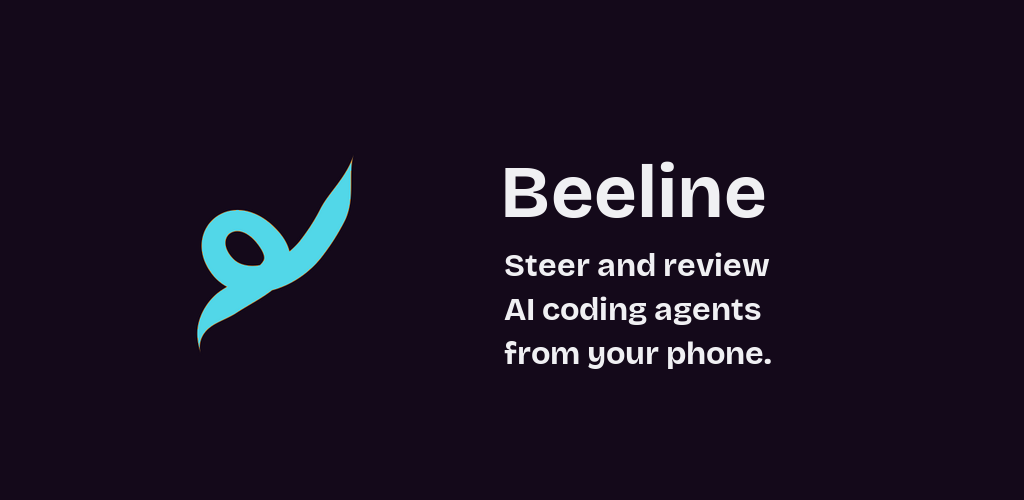
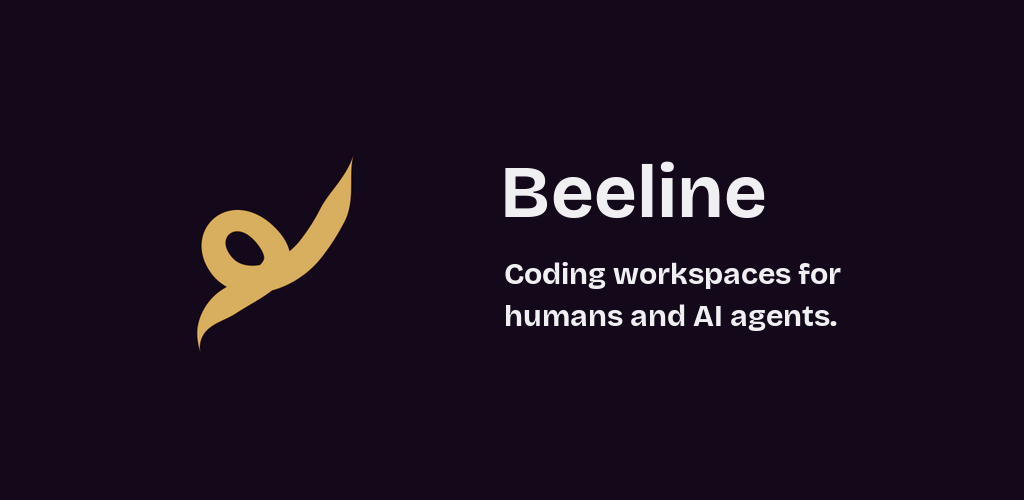
Update Beeline store assets and listing copy

Changed region(s): [[0.4688, 0.51, 0.8438, 0.66], [0.1875, 0.33, 0.3438, 0.69], [0.4688, 0.69, 0.75, 0.75]]

diff --git a/apps/mobile/store/README.md b/apps/mobile/store/README.md
@@ -13,7 +13,7 @@ It makes no store API calls. The current app identity is `app.usebeeline.mobile`
 - `screenshots/` — four 1080 × 2400 Android captures, each from the Beeline app.
 
 The store derivatives retain the canonical continuous-loop geometry from
-`apps/mobile/sources/assets/images/icon.svg`. Their cyan loop is the
+`apps/mobile/sources/assets/images/icon.svg`. Their brass loop is the
 owner-approved store treatment; it is deliberately scoped to this package and
 does not change the app's existing brass-on-aubergine icon sources.
 
@@ -22,7 +22,7 @@ does not change the app's existing brass-on-aubergine icon sources.
 Run `bash store/assets/generate.sh` from `apps/mobile`. The script reads only
 the tracked mobile icon and bundled font, then emits deterministic PNGs (no
 dates or metadata). It preserves the canonical mobile icon geometry and applies
-the owner-approved cyan color only to its store-only raster derivative.
+the owner-approved brass color only to its store-only raster derivative.
 
 ## Screenshot provenance
 
